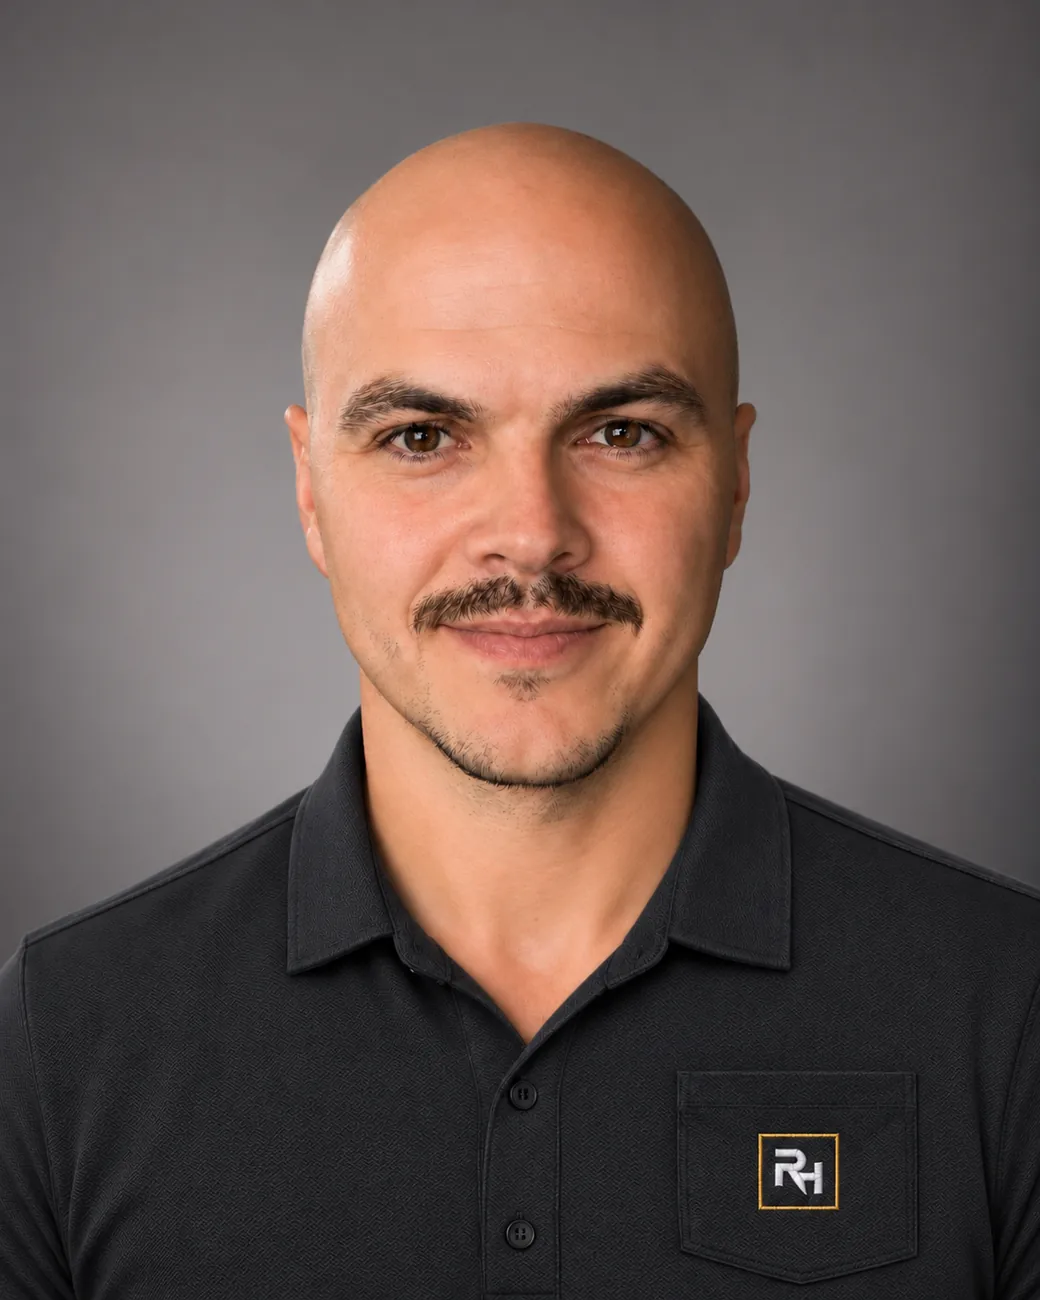
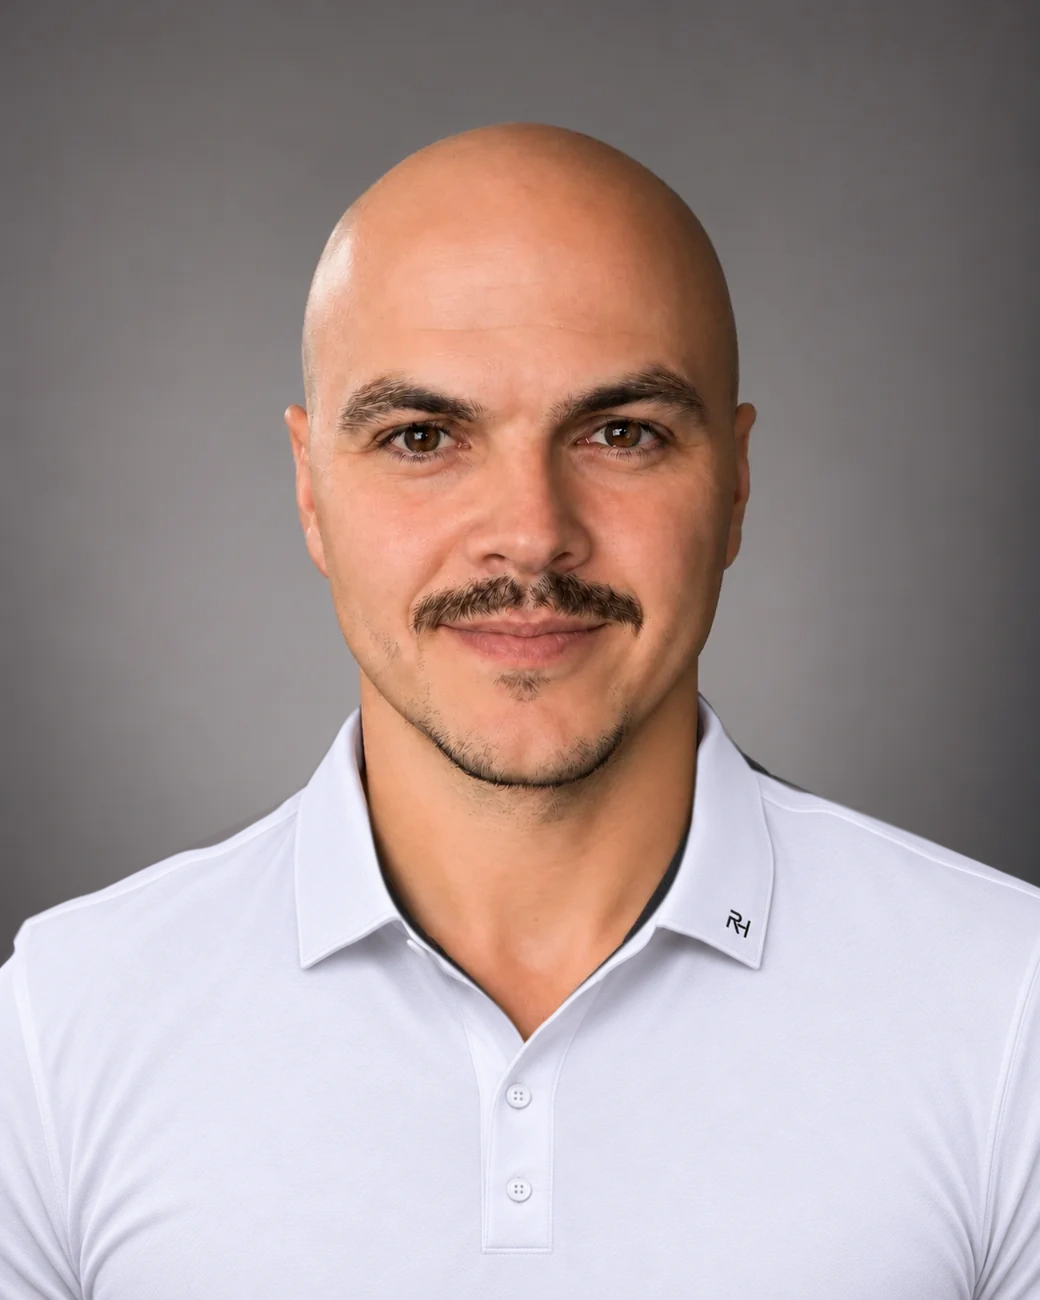
Publish approved white polo About portrait

diff --git a/about/index.html b/about/index.html
@@ -138,7 +138,7 @@ body:is(.our-work-page,.service-scope-page,.about-page) .footer-bottom{box-shado
           <p class="eyebrow">The person behind Rogers Holdings</p>
           <h1 id="founder-heading">I’m Brian Keith Rogers.</h1>
         </div>
-        <figure class="about-photo"><img src="../assets/images/about/keith.webp" width="1040" height="1300" decoding="async" alt="Brian Keith Rogers, founder of Rogers Holdings LLC, wearing a charcoal Rogers Holdings polo"></figure>
+        <figure class="about-photo"><img src="../assets/images/about/keith.webp?v=a84d7c0d5721" width="1040" height="1300" decoding="async" alt="Brian Keith Rogers, founder of Rogers Holdings LLC, wearing a white Rogers Holdings polo"></figure>
         <div class="about-copy">
           <p>I’m a dad of two, I work on a farm, and I’m as comfortable getting my hands dirty as I am figuring out how a piece of technology works. Farm work has taught me to pay attention to what’s getting in the way and find a fix that holds up when the work gets busy. I bring that same approach to helping business owners.</p>
           <p>I pay attention to the little things that make somebody’s day harder. When I built Eastland’s website, I wanted someone planning their first visit to find the service times and directions without hunting for them. When I helped with Missy’s workbook, I looked at what happens after a Facebook Live sale, when orders have to be totaled, packed, and sent out. I like figuring out where people get stuck and building something that helps them get on with the work.</p>

diff --git a/tests/sitewide-brand-assets.test.js b/tests/sitewide-brand-assets.test.js
@@ -123,7 +123,7 @@ assert.doesNotMatch(privacy, /<footer[\s\S]*?rogers-holdings-logo-reversed\.png/
 assert.equal((homepage.match(/rh-executive-materials-01-/g) || []).length, 0);
 assert.match(homepage, /href="\/about\/"/, 'founder remains reachable from the homepage');
 const about = read('about/index.html');
-assert.match(about, /<figure class="about-photo"><img src="\.\.\/assets\/images\/about\/keith\.webp" width="1040" height="1300"/);
+assert.match(about, /<figure class="about-photo"><img src="\.\.\/assets\/images\/about\/keith\.webp\?v=[a-f0-9]{12}" width="1040" height="1300"/);
 assert.match(about, /alt="Brian Keith Rogers, founder of Rogers Holdings LLC,[^"]+"/);
 assert.match(css, /grid-template-columns: minmax\(380px, \.84fr\) minmax\(0, 1\.16fr\)/);
 assert.match(css, /\.phase3-founder-portrait-frame[\s\S]*?aspect-ratio: 4 \/ 5/);
